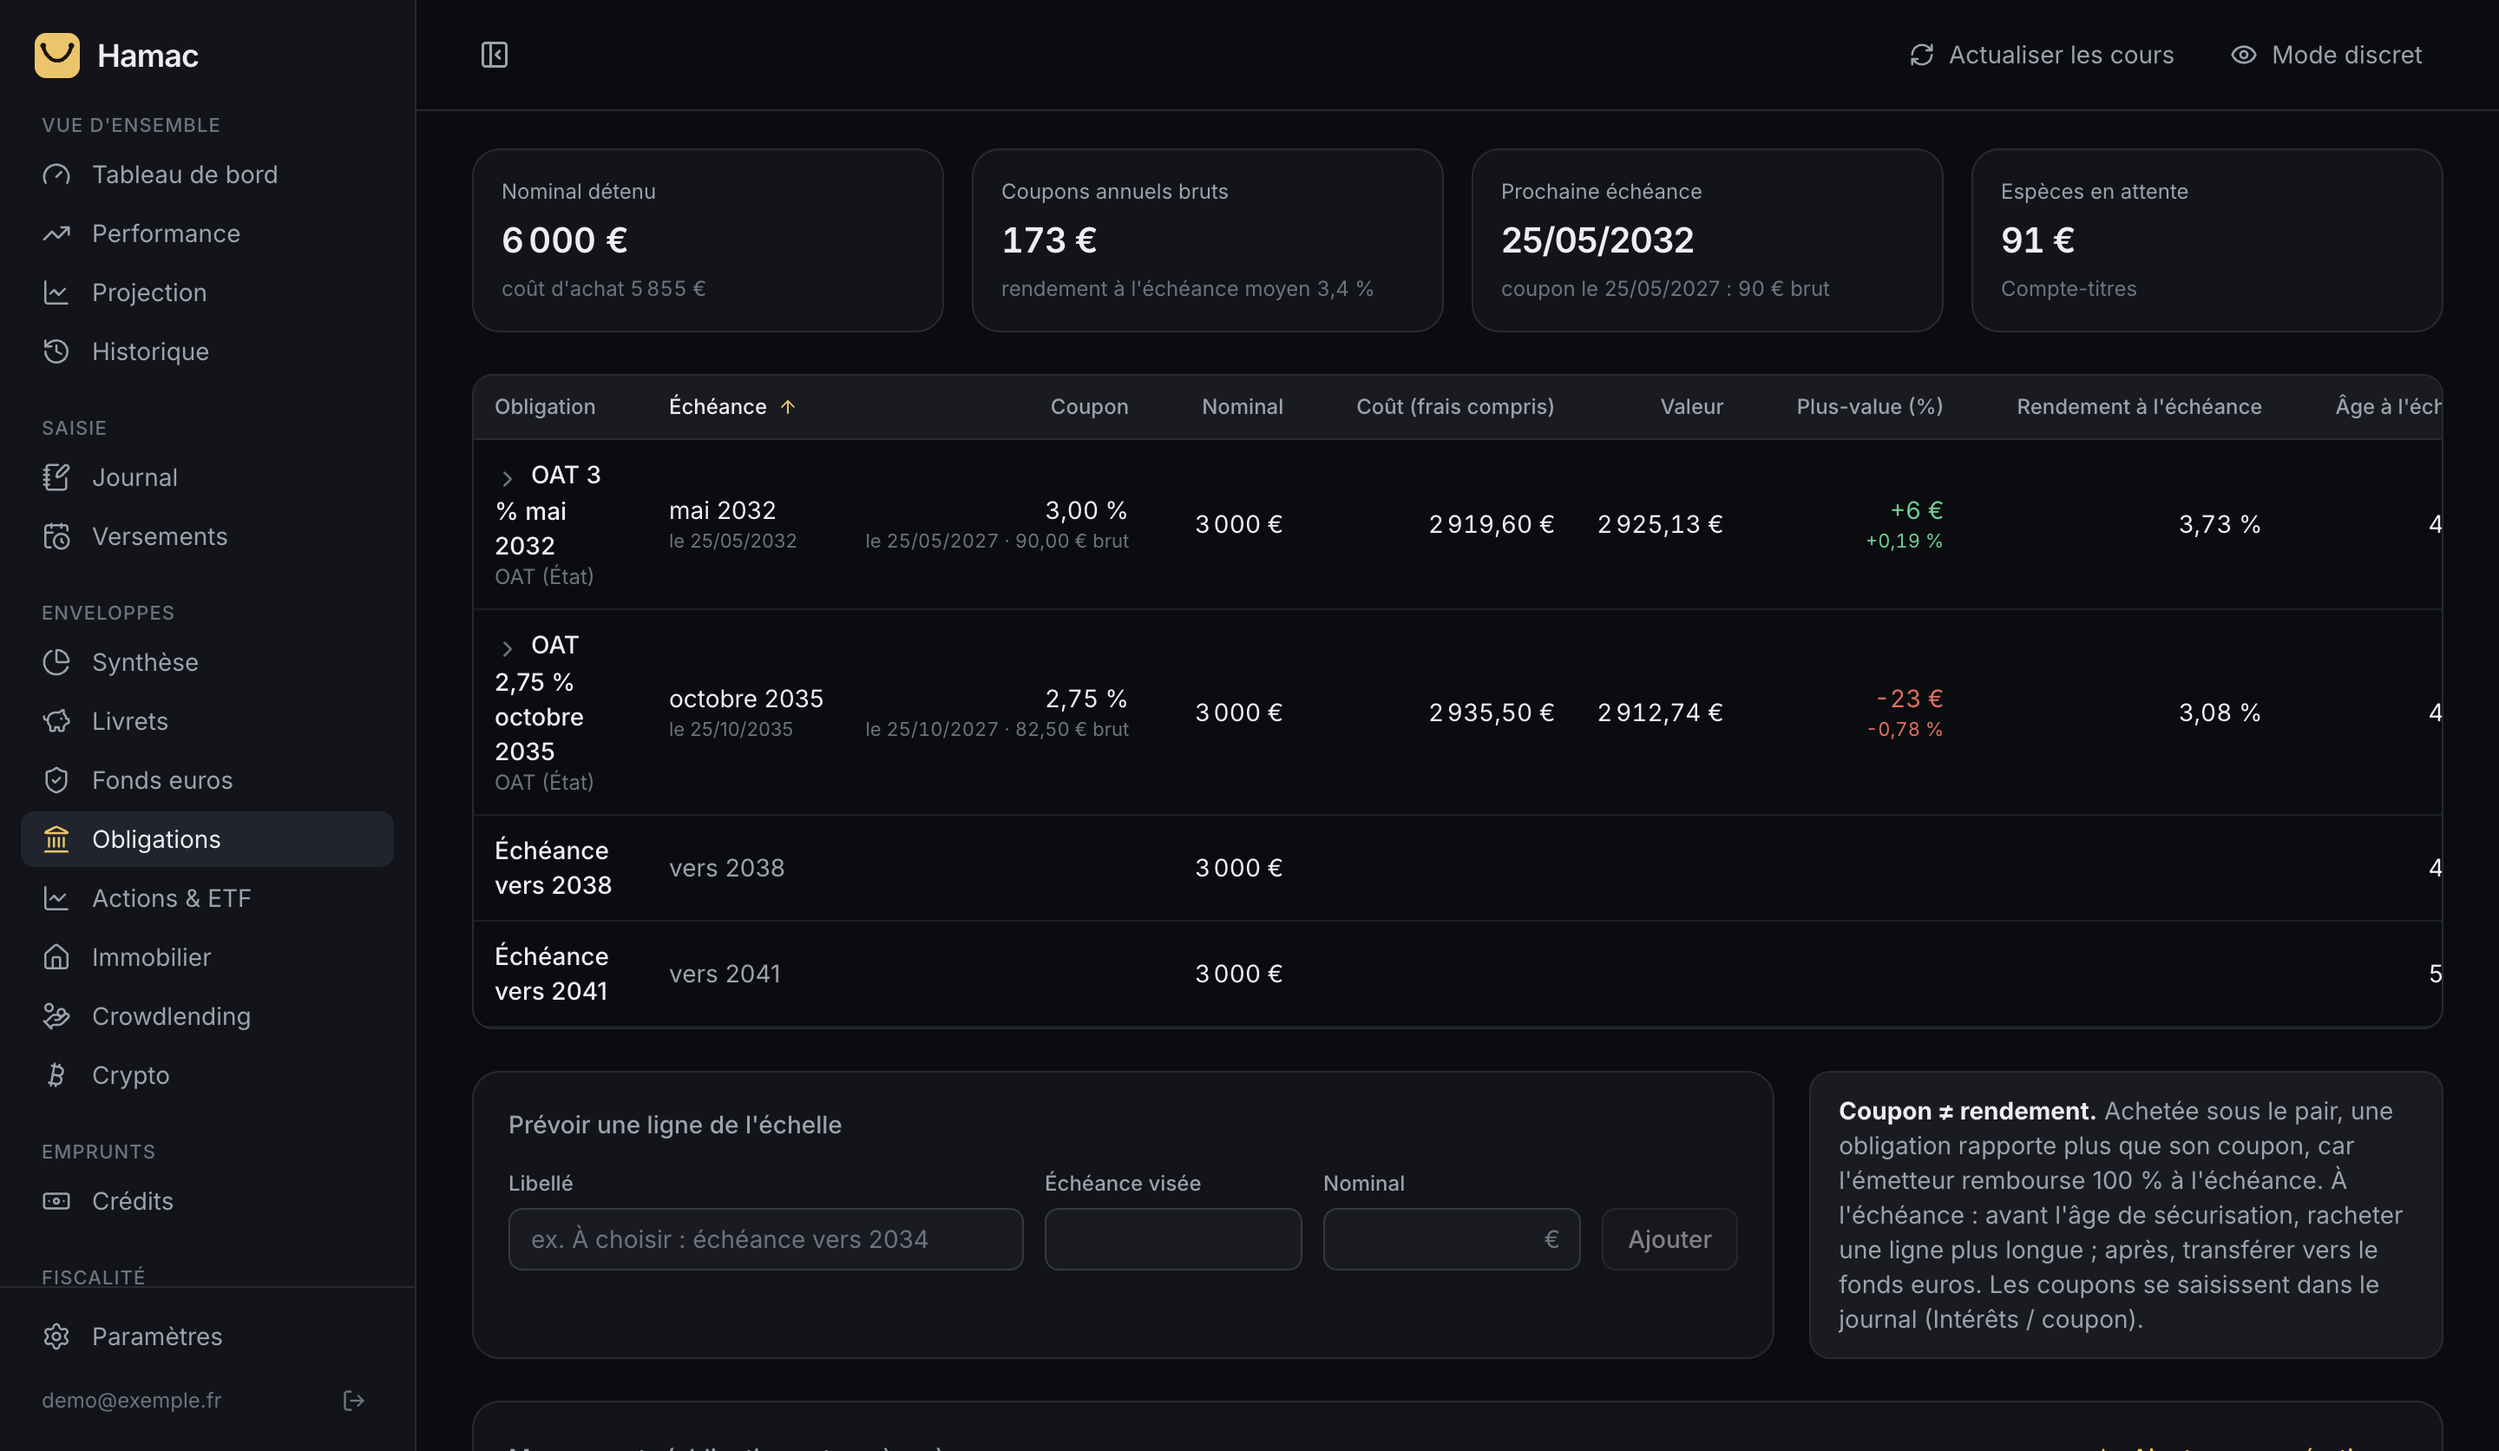
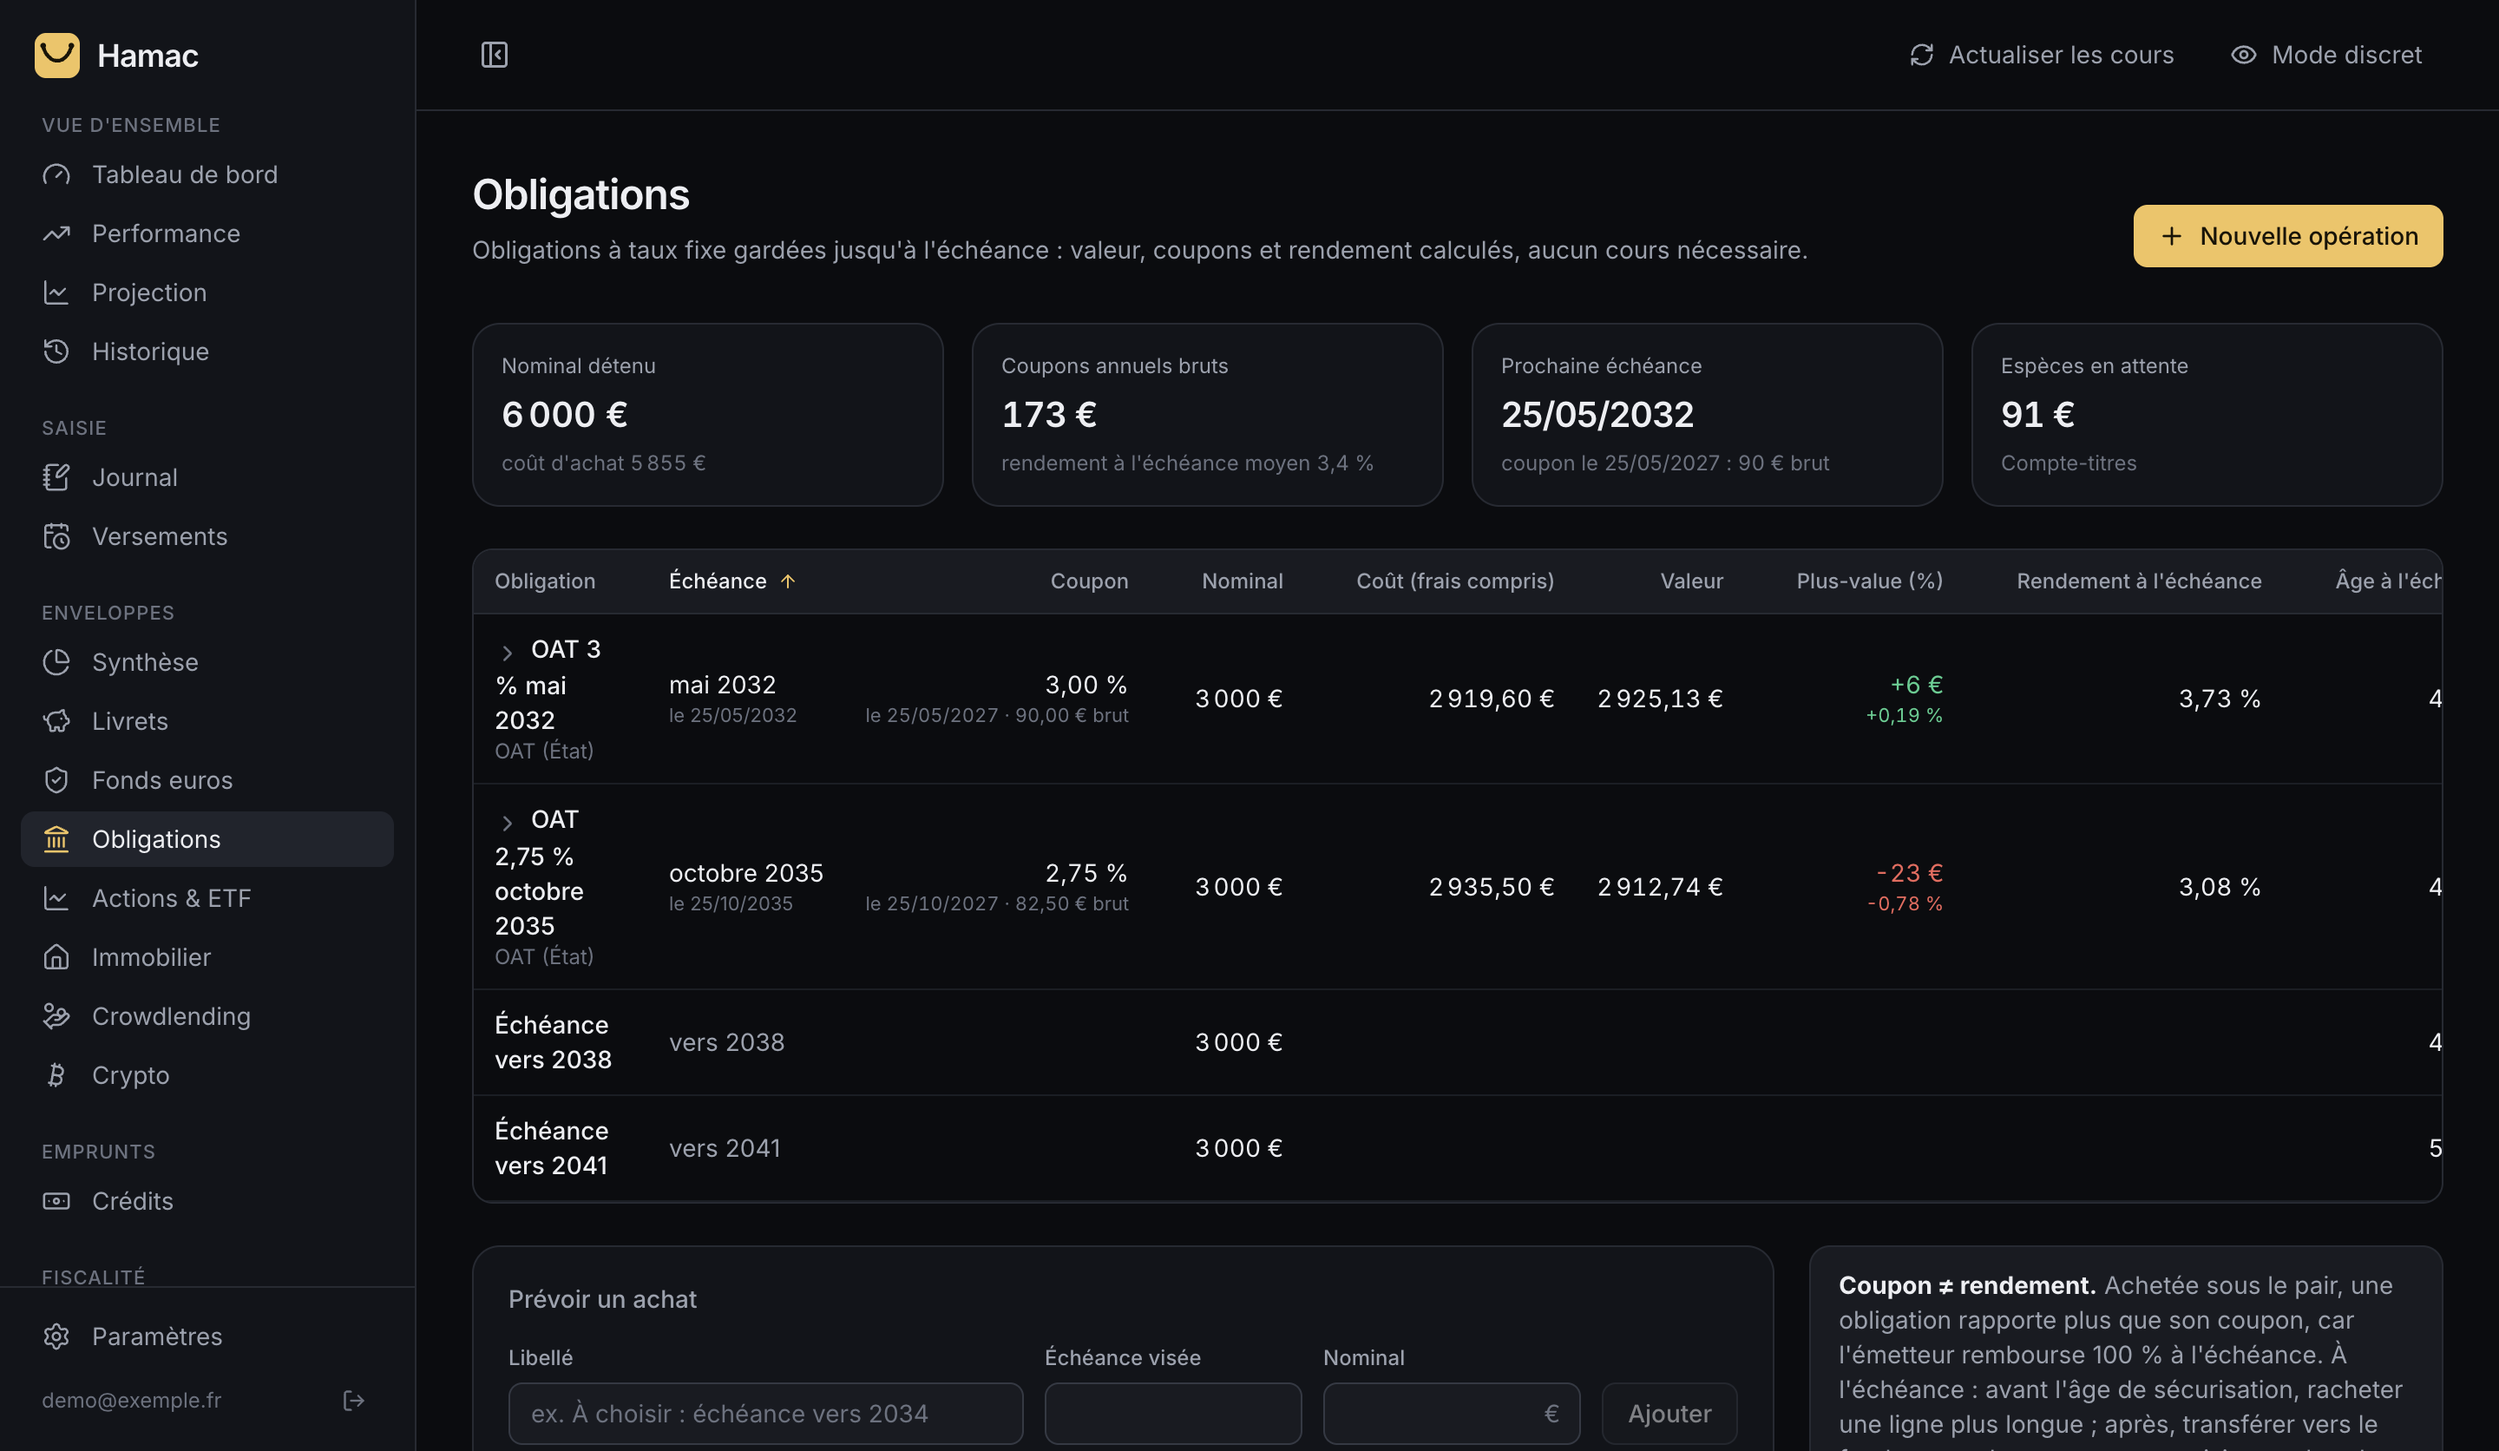
Obligations : le terme « échelle » remplacé par des mots simples

diff --git a/packages/ui/src/pages/Obligations.tsx b/packages/ui/src/pages/Obligations.tsx
@@ -70,7 +70,7 @@ export function Obligations() {
     <>
       <PageHeader
         title="Obligations"
-        description="Échelle d'obligations à taux fixe gardées jusqu'à l'échéance : valeur, coupons et rendement calculés, aucun cours nécessaire."
+        description="Obligations à taux fixe gardées jusqu'à l'échéance : valeur, coupons et rendement calculés, aucun cours nécessaire."
         actions={cto && <AddTransactionButton accountId={cto.account.id} type="achat" assetKinds={["obligation"]} accountKinds={["cto", "assurance_vie"]} />}
       />
       {!cto && (
@@ -121,7 +121,7 @@ export function Obligations() {
           </tr>
         </thead>
         <tbody>
-          {held.length + matured.length + idx.ws.bondPlans.length === 0 && <EmptyRow cols={11}>Aucune obligation. Prévoyez votre échelle ci-dessous, puis saisissez les achats dans le journal.</EmptyRow>}
+          {held.length + matured.length + idx.ws.bondPlans.length === 0 && <EmptyRow cols={11}>Aucune obligation. Prévoyez vos achats ci-dessous, puis saisissez-les dans le journal.</EmptyRow>}
           {ladder.sorted.map((p) => (
               <Fragment key={`${p.accountId}-${p.asset.id}`}>
               <Tr {...rowProps(`${p.accountId}-${p.asset.id}`)}>
@@ -230,7 +230,7 @@ export function Obligations() {
 
       <div className="mb-6 grid gap-5 @3xl:grid-cols-3">
         <Card className="@3xl:col-span-2">
-          <CardTitle>Prévoir une ligne de l'échelle</CardTitle>
+          <CardTitle>Prévoir un achat</CardTitle>
           <div className="grid items-end gap-3 sm:grid-cols-[2fr_1fr_1fr_auto]">
             <Field label="Libellé">{(id) => <TextInput id={id} value={label} onChange={(e) => setLabel(e.target.value)} placeholder="ex. À choisir : échéance vers 2034" />}</Field>
             <Field label="Échéance visée">{(id) => <NumberInput id={id} decimals={0} grouping={false} value={targetYear} onChange={setTargetYear} />}</Field>

diff --git a/packages/ui/src/nav.ts b/packages/ui/src/nav.ts
@@ -66,7 +66,7 @@ export const NAV: NavGroup[] = [
       { path: "/enveloppes", label: "Synthèse", icon: ChartPie, sheetTab: "Enveloppe", step: 3, description: "Valeur, versé net et allocation cible de chaque enveloppe." },
       { path: "/livrets", module: "livrets", label: "Livrets", icon: PiggyBank, sheetTab: "Livrets", step: 2, description: "Épargne de précaution : LEP, LDDS, Livret A, plancher et plafond." },
       { path: "/fonds-euros", module: "fondsEuros", label: "Fonds euros", icon: ShieldCheck, sheetTab: "Fonds euros", step: 2, description: "Assurance-vie : valeur, rapprochement et taux servis." },
-      { path: "/obligations", module: "obligations", label: "Obligations", icon: Landmark, sheetTab: "OAT", step: 2, description: "Échelle d'OAT et obligations d'entreprise détenues à l'échéance." },
+      { path: "/obligations", module: "obligations", label: "Obligations", icon: Landmark, sheetTab: "OAT", step: 2, description: "OAT et obligations d'entreprise gardées jusqu'à l'échéance." },
       { path: "/actions", module: "actions", label: "Actions & ETF", icon: ChartLine, sheetTab: "Actions", step: 2, description: "Positions du PEA, PRU, cours et investissement mensuel conseillé." },
       { path: "/immobilier", module: "immobilier", label: "Immobilier", icon: House, sheetTab: "Immobilier", step: 5, description: "Biens immobiliers et SCPI." },
       { path: "/crowdlending", module: "crowdlending", label: "Crowdlending", icon: HandCoins, sheetTab: "Crowdlending", step: 5, description: "Plateformes de prêt et suivi projet par projet." },

diff --git a/packages/core/src/engine.ts b/packages/core/src/engine.ts
@@ -92,7 +92,7 @@ export interface AccountState {
   account: Account;
   cash: number;
   positions: PositionState[];
-  /** Obligations arrivées à échéance (pour l'échelle). */
+  /** Obligations arrivées à échéance (pour la page Obligations). */
   maturedBonds: PositionState[];
   positionsValue: number;
   value: number;

diff --git a/packages/core/src/domain.ts b/packages/core/src/domain.ts
@@ -270,7 +270,7 @@ export interface ContributionSkip {
   comment: string;
 }
 
-/** Ligne prévue de l'échelle d'obligations (pas encore achetée). */
+/** Achat d'obligation prévu (pas encore réalisé). */
 export interface BondPlan {
   id: string;
   accountId: string | null;

diff --git a/README.md b/README.md
@@ -65,7 +65,7 @@ en la fiabilisant.
 - **Assurance-vie** : fonds euros, taux servis, rapprochement avec le relevé de l'assureur, clause
   bénéficiaire, garantie FGAP.
 - **Obligations** (OAT et entreprises) détenues jusqu'à l'échéance : calendrier et prochain coupon, coupon
-  couru, valeur amortie, rendement actuariel, remboursement automatique, échelle prévue et réalisée.
+  couru, valeur amortie, rendement actuariel, remboursement automatique, achats prévus et réalisés.
 - **Actions et ETF** (PEA, PEA-PME, PER, épargne salariale, comptes-titres) : prix de revient, cours
   automatiques, écart à la répartition cible, achat conseillé du mois.
 - **Crypto** : positions, plus-values de chaque cession et impôt de l'année.
@@ -122,11 +122,11 @@ en la fiabilisant.
   </tr>
   <tr>
     <td><img src="docs/captures/projection.png" alt="Projection jusqu'à la retraite avec fourchette et simulateur"></td>
-    <td><img src="docs/captures/obligations.png" alt="Échelle d'obligations : prochain coupon, rendement à l'échéance, plus-value"></td>
+    <td><img src="docs/captures/obligations.png" alt="Obligations : prochain coupon, rendement à l'échéance, plus-value"></td>
   </tr>
   <tr>
     <td align="center">Projection et simulateur « et si »</td>
-    <td align="center">Échelle d'obligations</td>
+    <td align="center">Obligations détenues et achats prévus</td>
   </tr>
   <tr>
     <td><img src="docs/captures/crowdlending.png" alt="Crowdlending : plateformes et suivi projet par projet"></td>

diff --git a/docs/architecture/modele-de-donnees.md b/docs/architecture/modele-de-donnees.md
@@ -12,7 +12,7 @@ Hamac reprend la logique d'un Google Sheet de plan d'épargne retraite, en corri
 | **Montant d'un document fiscal** (`tax_statement_amounts`) | Montant lu sur le document d'un établissement, par année et par case. | Sert à comparer le récapitulatif fiscal au document reçu. |
 | **Versement programmé** (`contribution_plans`) | « À partir du mois M, X €/mois sur ce compte. » 0 = arrêt. | Un seul plan par compte et par mois ; le dernier démarré s'applique. |
 | **Mois manqué** (`contribution_skips`) | Montant non versé un mois donné. | Déduit du versement prévu, sans passer sous zéro. |
-| **Ligne prévue d'obligations** (`bond_plans`) | Échelle d'obligations à acheter (échéance visée, nominal). | Devient un achat réel dans le journal. |
+| **Ligne prévue d'obligations** (`bond_plans`) | Obligation à acheter plus tard (échéance visée, nominal). | Devient un achat réel dans le journal. |
 | **Taux servi** (`fund_rates`) | Taux du fonds euros par année. | |
 | **Relevé** (`statements`) | Valeur relevée chez l'établissement, pour le rapprochement. | L'écart se corrige par une opération « Correction ». |
 | **Cours** (`prices`) | Historique des cours par titre et par jour. | |
